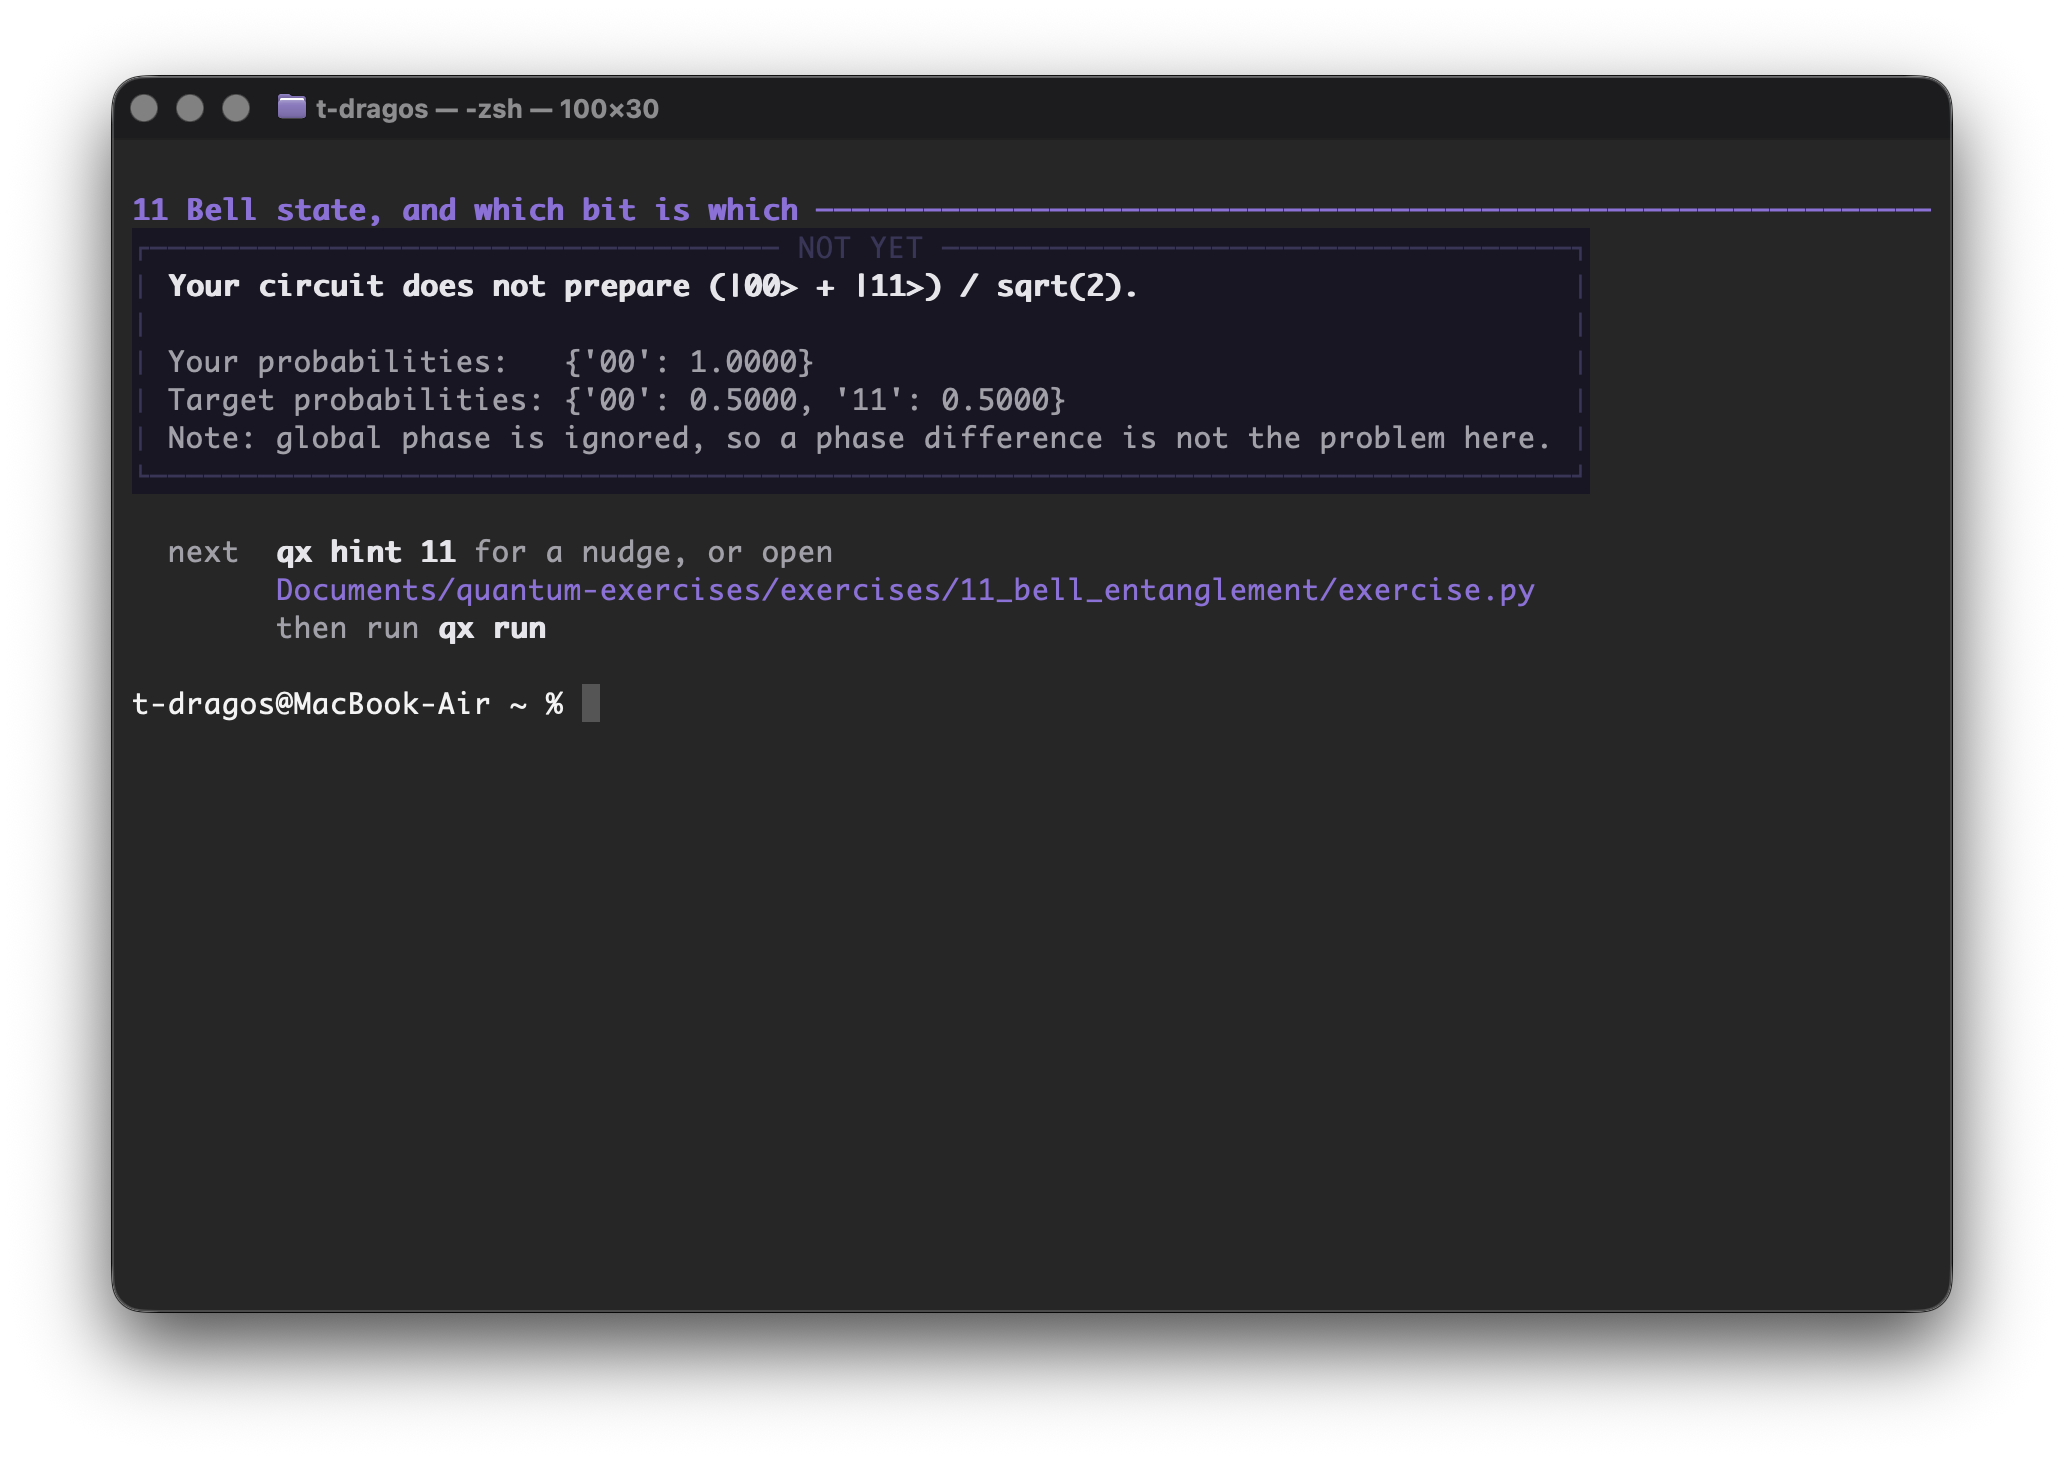
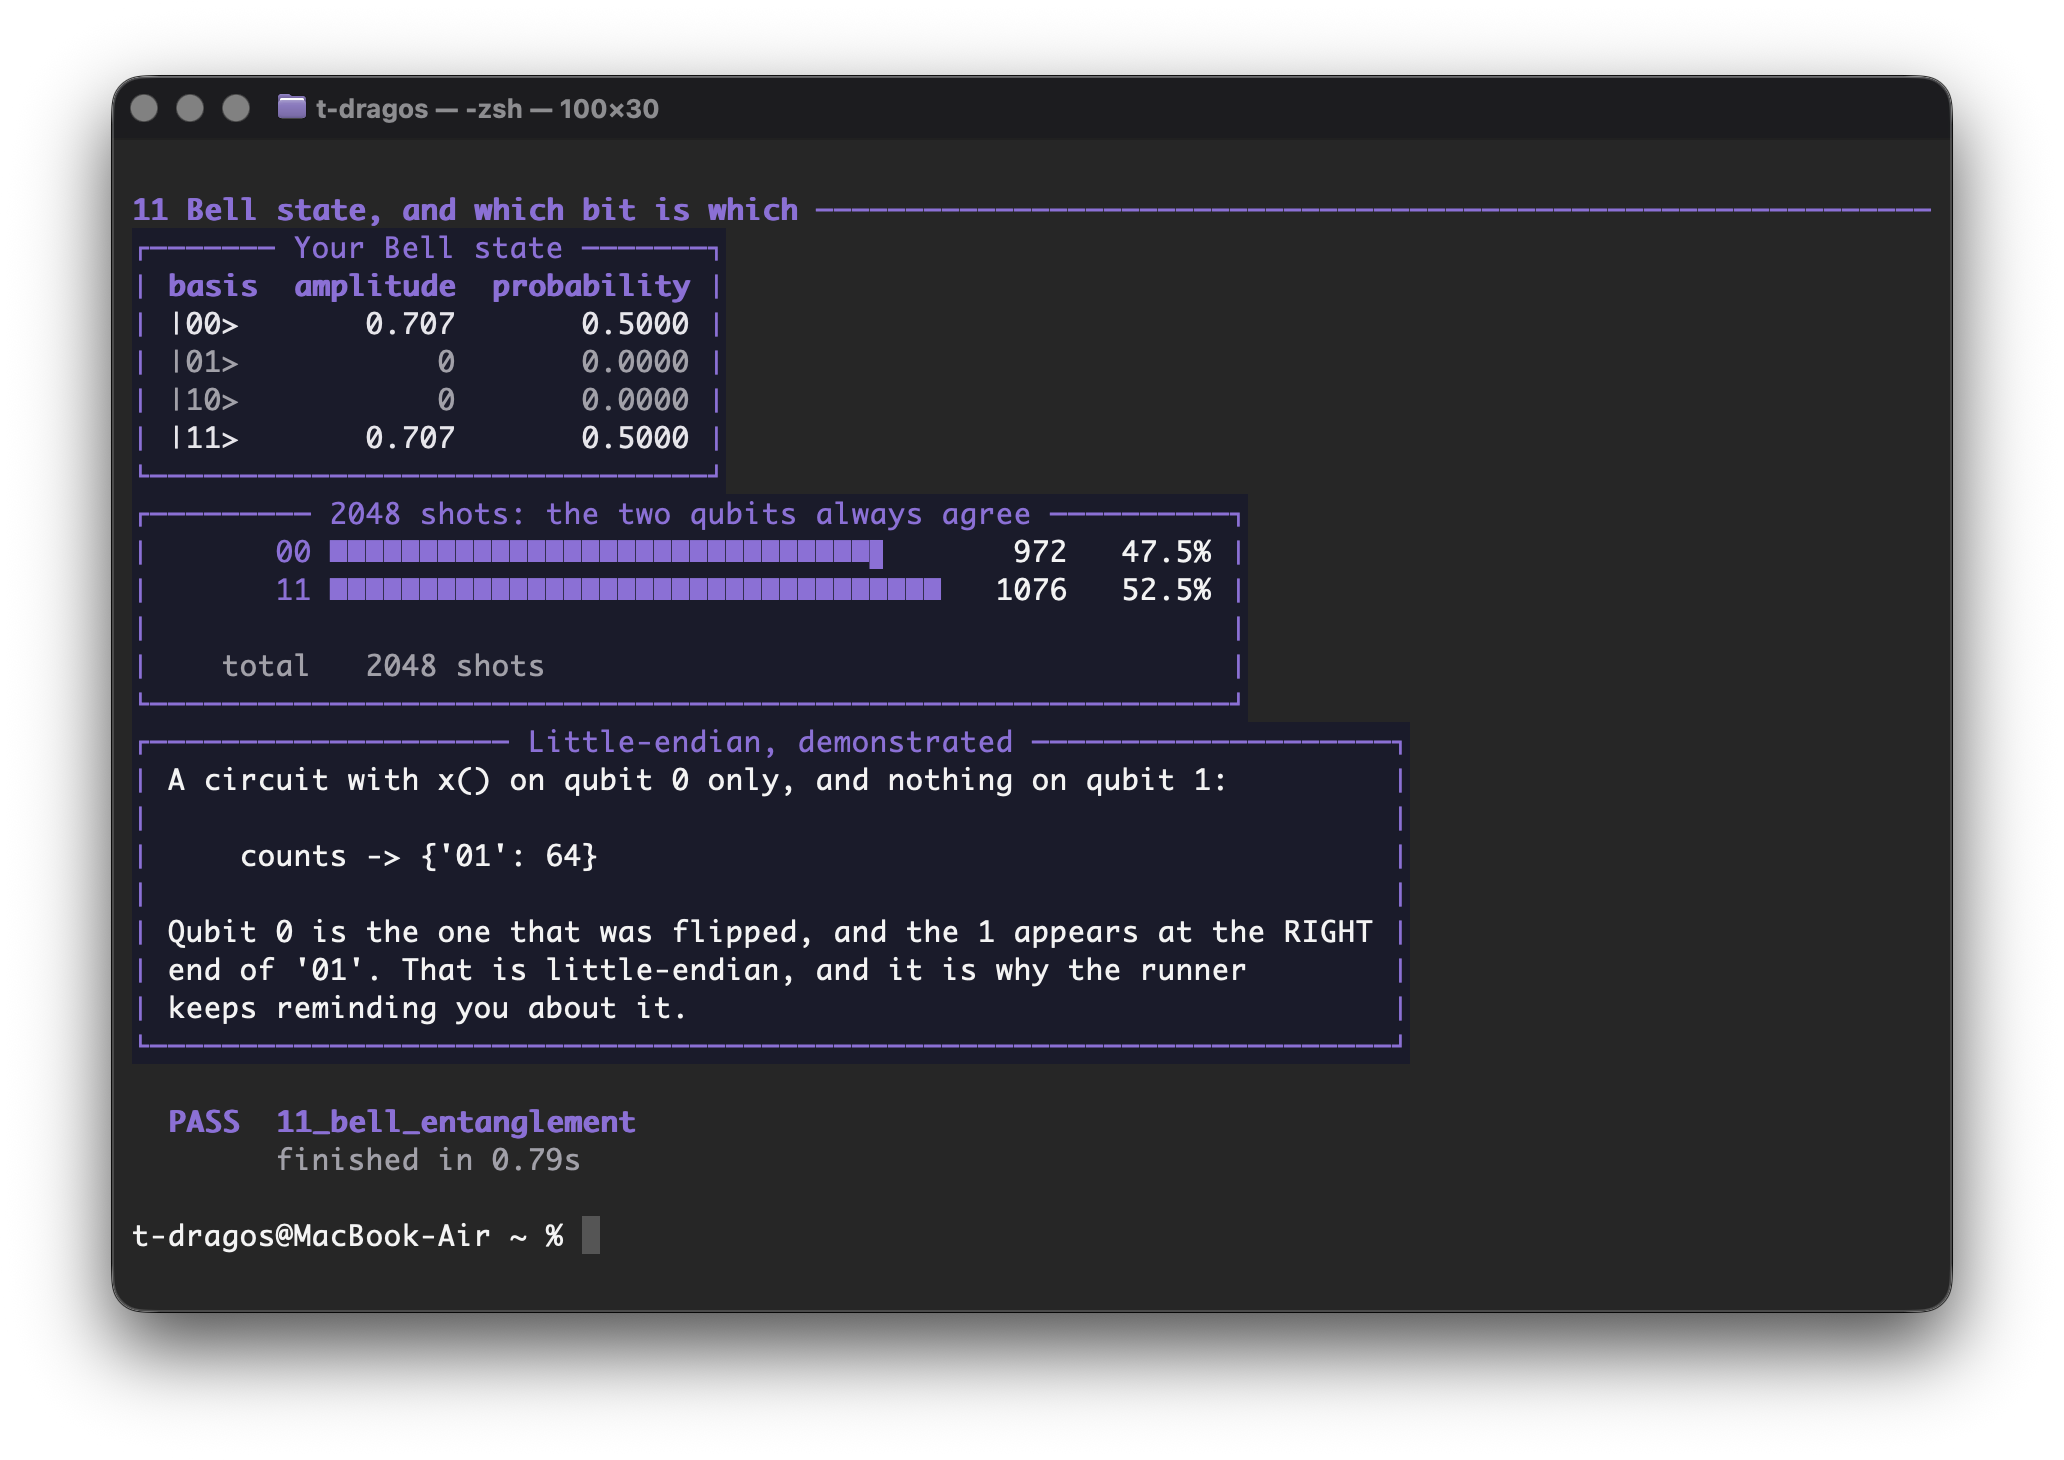
Stop the worker littering exercise folders with __pycache__
The worker imports exercise.py, check.py, solution.py and template.py, so every
exercise directory filled with a __pycache__ holding four .pyc files per Python
version. Gitignored, so never committed, but the learner sees the whole lot in
their editor tree beside the file they are meant to be working in. It showed up
in a screenshot of VS Code, thirteen entries deep, burying the four files that
matter.

The child now runs with PYTHONDONTWRITEBYTECODE, so none is written at all.

diff --git a/src/quantum_exercises/runner.py b/src/quantum_exercises/runner.py
@@ -92,6 +92,10 @@ def _child_env() -> dict[str, str]:
         "PYTHONSAFEPATH": "1",
         # Pin the child's own streams to UTF-8 so a circuit drawing survives a
         # console whose locale encoding cannot represent box characters.
+        # No .pyc litter: the worker imports exercise.py, check.py and their
+        # neighbours, which would otherwise fill every exercise directory with a
+        # __pycache__ the learner sees in their editor and never asked for.
+        "PYTHONDONTWRITEBYTECODE": "1",
         "PYTHONIOENCODING": "utf-8",
         # Python 3.13 and later colour their own tracebacks on a terminal, and
         # anything the exercise itself prints could carry colour too. Both would
